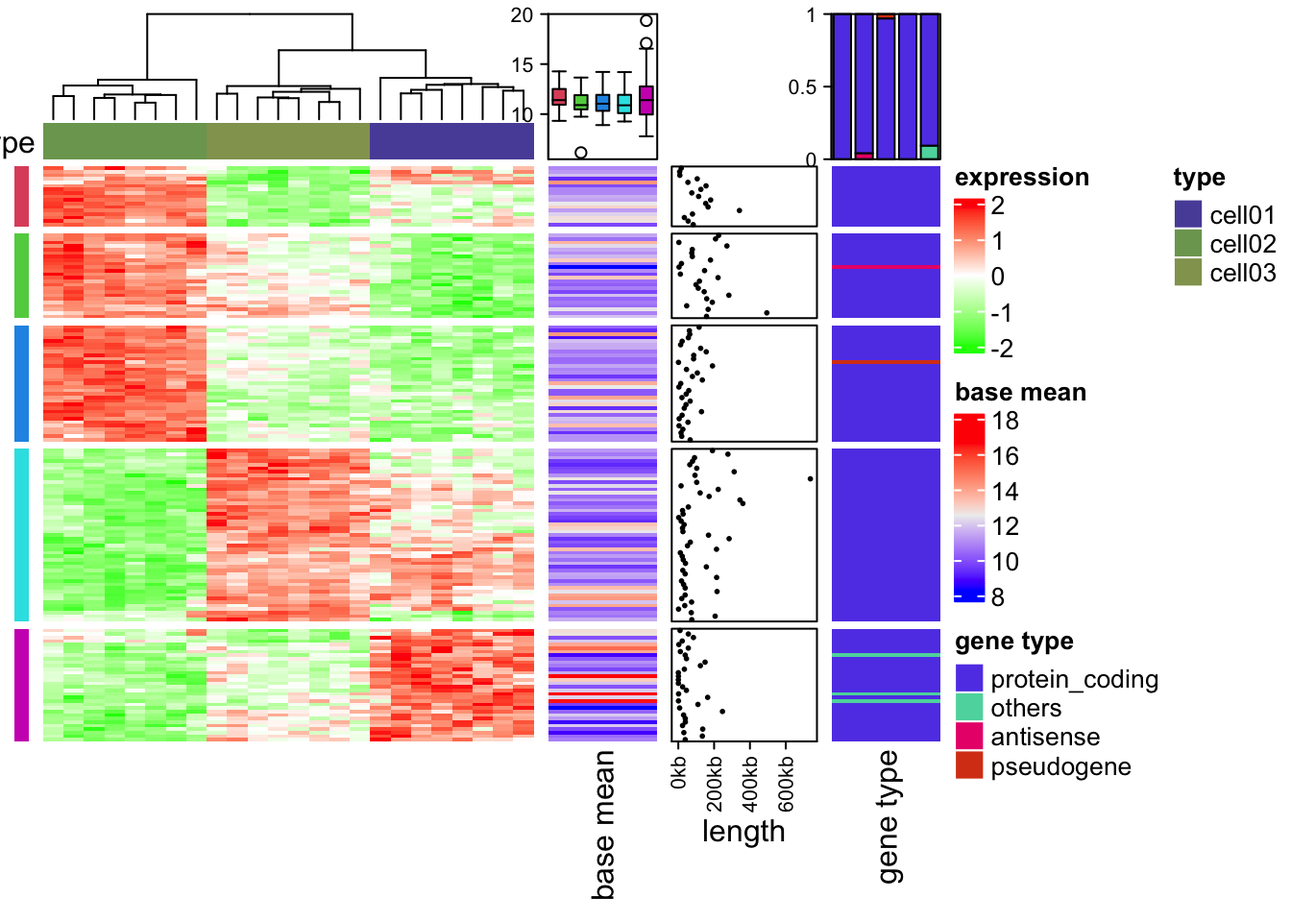
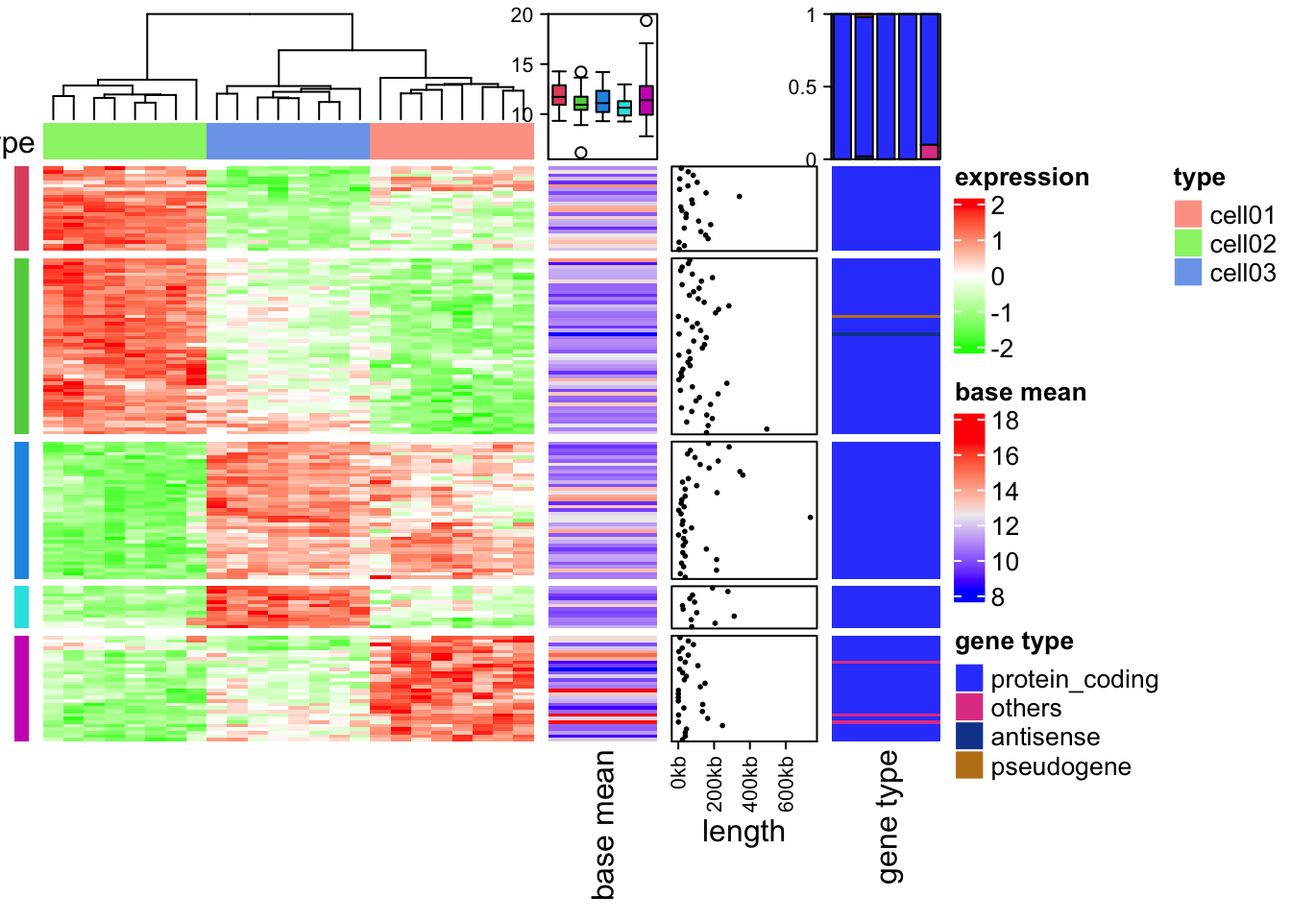
add complexheatmap

diff --git a/docs/blog/2023/05/03/index.html b/docs/blog/2023/05/03/index.html
@@ -220,35 +220,153 @@ code span.wa { color: #60a0b0; font-weight: bold; font-style: italic; } /* Warni
 <span><span class="kw"><a href="https://rdrr.io/r/base/library.html">require</a></span><span class="op">(</span><span class="va"><a href="https://svn.r-project.org/R-packages/trunk/cluster/">cluster</a></span><span class="op">)</span></span></code><button title="Copy to Clipboard" class="code-copy-button"><i class="bi"></i></button></pre></div>
 </div>
 <div class="cell" data-layout-align="center">
-<div class="sourceCode" id="cb2"><pre class="downlit sourceCode r code-with-copy"><code class="sourceCode R"><span><span class="kw"><a href="https://rdrr.io/r/base/library.html">library</a></span><span class="op">(</span><span class="va"><a href="https://github.com/jokergoo/ComplexHeatmap">ComplexHeatmap</a></span><span class="op">)</span></span>
-<span><span class="kw"><a href="https://rdrr.io/r/base/library.html">library</a></span><span class="op">(</span><span class="va"><a href="https://github.com/jokergoo/circlize">circlize</a></span><span class="op">)</span></span>
-<span></span>
-<span><span class="va">expr</span> <span class="op">&lt;-</span> <span class="fu"><a href="https://rdrr.io/r/base/readRDS.html">readRDS</a></span><span class="op">(</span><span class="fu"><a href="https://rdrr.io/r/base/system.file.html">system.file</a></span><span class="op">(</span>package <span class="op">=</span> <span class="st">"ComplexHeatmap"</span>, <span class="st">"extdata"</span>, <span class="st">"gene_expression.rds"</span><span class="op">)</span><span class="op">)</span></span>
+<div class="sourceCode" id="cb2"><pre class="downlit sourceCode r code-with-copy"><code class="sourceCode R"><span><span class="va">expr</span> <span class="op">&lt;-</span> <span class="fu"><a href="https://rdrr.io/r/base/readRDS.html">readRDS</a></span><span class="op">(</span><span class="fu"><a href="https://rdrr.io/r/base/system.file.html">system.file</a></span><span class="op">(</span>package <span class="op">=</span> <span class="st">"ComplexHeatmap"</span>, <span class="st">"extdata"</span>, <span class="st">"gene_expression.rds"</span><span class="op">)</span><span class="op">)</span></span>
+<span><span class="fu"><a href="https://rdrr.io/r/utils/head.html">head</a></span><span class="op">(</span><span class="va">expr</span><span class="op">)</span></span>
+<span><span class="co">##       s1_cell01 s2_cell02 s3_cell03 s4_cell01 s5_cell02 s6_cell03 s7_cell01</span></span>
+<span><span class="co">## gene1 11.116315 12.659864 11.380503 10.843436 12.294022 11.078295 11.083354</span></span>
+<span><span class="co">## gene2 10.947069  8.560271 11.370300 10.217849  8.863639 10.662690  9.595477</span></span>
+<span><span class="co">## gene3  9.452391  8.037535  8.938325 10.489147  8.402186  8.014418  9.437550</span></span>
+<span><span class="co">## gene4 12.555035 11.832308 11.475035 13.942389 10.607904 11.093560 13.494761</span></span>
+<span><span class="co">## gene5 13.409375 11.254771 13.975412 12.089657 12.501463 12.960217 12.122823</span></span>
+<span><span class="co">## gene6 10.047402  7.259497 10.345380  9.911114  8.219643 10.659074 11.340390</span></span>
+<span><span class="co">##       s8_cell02 s9_cell03 s10_cell01 s11_cell02 s12_cell03 s13_cell01</span></span>
+<span><span class="co">## gene1 12.831572 11.249163  10.455120  12.764083   11.19787  10.323888</span></span>
+<span><span class="co">## gene2  7.961365 10.503118   9.752049   8.418864   10.42819   9.476824</span></span>
+<span><span class="co">## gene3  7.036521  8.459766  10.182057   7.625993    8.92803   9.667321</span></span>
+<span><span class="co">## gene4 11.164252 11.803030  14.052338  11.198188   11.14581  14.066414</span></span>
+<span><span class="co">## gene5 11.046727 13.273749  11.356355  10.301182   13.31146  13.028308</span></span>
+<span><span class="co">## gene6  8.494383 10.704764   9.886160   7.856373   10.37793   9.784094</span></span>
+<span><span class="co">##       s14_cell02 s15_cell03 s16_cell01 s17_cell02 s18_cell03 s19_cell01</span></span>
+<span><span class="co">## gene1  13.012431  11.317087  10.406549  12.710788  11.413241  10.696686</span></span>
+<span><span class="co">## gene2   9.375891  11.239524   9.314513   8.470325  10.206657   9.948435</span></span>
+<span><span class="co">## gene3   6.948153   8.834066   9.591642   7.650367   8.397009   9.765836</span></span>
+<span><span class="co">## gene4  10.784919  11.973145  13.262880  11.185166  11.506757  13.597177</span></span>
+<span><span class="co">## gene5  10.550493  13.733216  11.621050  11.118950  14.008677  12.213920</span></span>
+<span><span class="co">## gene6   7.464900  11.005751   9.735216   7.039364   9.973792  10.455232</span></span>
+<span><span class="co">##       s20_cell02 s21_cell03 s22_cell01 s23_cell02 s24_cell03 length</span></span>
+<span><span class="co">## gene1  12.833052  11.120816  10.253059  12.639109   11.20286 124882</span></span>
+<span><span class="co">## gene2   8.955172  10.986614  10.070941   9.072506   10.86882  51244</span></span>
+<span><span class="co">## gene3   7.555076   9.363587   9.699388   7.212572    8.77353  39318</span></span>
+<span><span class="co">## gene4  11.965918  11.153328  12.774287  11.296756   11.69720  45043</span></span>
+<span><span class="co">## gene5  10.705403  13.476935  11.990328  10.409759   13.52906  15421</span></span>
+<span><span class="co">## gene6   7.823994  10.657544   9.713445   7.623823   10.52708 283709</span></span>
+<span><span class="co">##                 type  chr</span></span>
+<span><span class="co">## gene1 protein_coding chr1</span></span>
+<span><span class="co">## gene2 protein_coding chr1</span></span>
+<span><span class="co">## gene3 protein_coding chr1</span></span>
+<span><span class="co">## gene4 protein_coding chr1</span></span>
+<span><span class="co">## gene5 protein_coding chr1</span></span>
+<span><span class="co">## gene6 protein_coding chr1</span></span>
 <span><span class="va">mat</span> <span class="op">&lt;-</span> <span class="fu"><a href="https://rdrr.io/r/base/matrix.html">as.matrix</a></span><span class="op">(</span><span class="va">expr</span><span class="op">[</span>, <span class="fu"><a href="https://rdrr.io/r/base/grep.html">grep</a></span><span class="op">(</span><span class="st">"cell"</span>, <span class="fu"><a href="https://rdrr.io/r/base/colnames.html">colnames</a></span><span class="op">(</span><span class="va">expr</span><span class="op">)</span><span class="op">)</span><span class="op">]</span><span class="op">)</span></span>
+<span><span class="fu"><a href="https://rdrr.io/r/utils/head.html">head</a></span><span class="op">(</span><span class="va">mat</span><span class="op">)</span></span>
+<span><span class="co">##       s1_cell01 s2_cell02 s3_cell03 s4_cell01 s5_cell02 s6_cell03 s7_cell01</span></span>
+<span><span class="co">## gene1 11.116315 12.659864 11.380503 10.843436 12.294022 11.078295 11.083354</span></span>
+<span><span class="co">## gene2 10.947069  8.560271 11.370300 10.217849  8.863639 10.662690  9.595477</span></span>
+<span><span class="co">## gene3  9.452391  8.037535  8.938325 10.489147  8.402186  8.014418  9.437550</span></span>
+<span><span class="co">## gene4 12.555035 11.832308 11.475035 13.942389 10.607904 11.093560 13.494761</span></span>
+<span><span class="co">## gene5 13.409375 11.254771 13.975412 12.089657 12.501463 12.960217 12.122823</span></span>
+<span><span class="co">## gene6 10.047402  7.259497 10.345380  9.911114  8.219643 10.659074 11.340390</span></span>
+<span><span class="co">##       s8_cell02 s9_cell03 s10_cell01 s11_cell02 s12_cell03 s13_cell01</span></span>
+<span><span class="co">## gene1 12.831572 11.249163  10.455120  12.764083   11.19787  10.323888</span></span>
+<span><span class="co">## gene2  7.961365 10.503118   9.752049   8.418864   10.42819   9.476824</span></span>
+<span><span class="co">## gene3  7.036521  8.459766  10.182057   7.625993    8.92803   9.667321</span></span>
+<span><span class="co">## gene4 11.164252 11.803030  14.052338  11.198188   11.14581  14.066414</span></span>
+<span><span class="co">## gene5 11.046727 13.273749  11.356355  10.301182   13.31146  13.028308</span></span>
+<span><span class="co">## gene6  8.494383 10.704764   9.886160   7.856373   10.37793   9.784094</span></span>
+<span><span class="co">##       s14_cell02 s15_cell03 s16_cell01 s17_cell02 s18_cell03 s19_cell01</span></span>
+<span><span class="co">## gene1  13.012431  11.317087  10.406549  12.710788  11.413241  10.696686</span></span>
+<span><span class="co">## gene2   9.375891  11.239524   9.314513   8.470325  10.206657   9.948435</span></span>
+<span><span class="co">## gene3   6.948153   8.834066   9.591642   7.650367   8.397009   9.765836</span></span>
+<span><span class="co">## gene4  10.784919  11.973145  13.262880  11.185166  11.506757  13.597177</span></span>
+<span><span class="co">## gene5  10.550493  13.733216  11.621050  11.118950  14.008677  12.213920</span></span>
+<span><span class="co">## gene6   7.464900  11.005751   9.735216   7.039364   9.973792  10.455232</span></span>
+<span><span class="co">##       s20_cell02 s21_cell03 s22_cell01 s23_cell02 s24_cell03</span></span>
+<span><span class="co">## gene1  12.833052  11.120816  10.253059  12.639109   11.20286</span></span>
+<span><span class="co">## gene2   8.955172  10.986614  10.070941   9.072506   10.86882</span></span>
+<span><span class="co">## gene3   7.555076   9.363587   9.699388   7.212572    8.77353</span></span>
+<span><span class="co">## gene4  11.965918  11.153328  12.774287  11.296756   11.69720</span></span>
+<span><span class="co">## gene5  10.705403  13.476935  11.990328  10.409759   13.52906</span></span>
+<span><span class="co">## gene6   7.823994  10.657544   9.713445   7.623823   10.52708</span></span>
 <span><span class="va">base_mean</span> <span class="op">&lt;-</span> <span class="fu"><a href="https://rdrr.io/r/base/colSums.html">rowMeans</a></span><span class="op">(</span><span class="va">mat</span><span class="op">)</span></span>
+<span></span>
 <span><span class="va">mat_scaled</span> <span class="op">&lt;-</span> <span class="fu"><a href="https://rdrr.io/r/base/t.html">t</a></span><span class="op">(</span><span class="fu"><a href="https://rdrr.io/r/base/apply.html">apply</a></span><span class="op">(</span><span class="va">mat</span>, <span class="fl">1</span>, <span class="va">scale</span><span class="op">)</span><span class="op">)</span></span>
+<span><span class="fu"><a href="https://rdrr.io/r/utils/head.html">head</a></span><span class="op">(</span><span class="va">mat_scaled</span><span class="op">)</span></span>
+<span><span class="co">##             [,1]       [,2]       [,3]       [,4]       [,5]       [,6]</span></span>
+<span><span class="co">## gene1 -0.4580220  1.2233285 -0.1702484 -0.7552627  0.8248255 -0.4994371</span></span>
+<span><span class="co">## gene2  1.1767032 -1.2777399  1.6119295  0.4268159 -0.9657742  0.8842654</span></span>
+<span><span class="co">## gene3  0.7550086 -0.6387179  0.2486201  1.7762824 -0.2795125 -0.6614902</span></span>
+<span><span class="co">## gene4  0.4392434 -0.2123722 -0.5344916  1.6900900 -1.3163023 -0.8784313</span></span>
+<span><span class="co">## gene5  0.9598107 -0.8232334  1.4282345 -0.1323227  0.2084673  0.5881098</span></span>
+<span><span class="co">## gene6  0.4435133 -1.6417021  0.6663856  0.3415766 -0.9235605  0.9010132</span></span>
+<span><span class="co">##             [,7]       [,8]       [,9]       [,10]      [,11]      [,12]</span></span>
+<span><span class="co">## gene1 -0.4939266  1.4103655 -0.3133148 -1.17824668  1.3368516 -0.3691917</span></span>
+<span><span class="co">## gene2 -0.2131949 -1.8936196  0.7201703 -0.05218502 -1.4231542  0.6431164</span></span>
+<span><span class="co">## gene3  0.7403901 -1.6247838 -0.2227921  1.47377825 -1.0441140  0.2384783</span></span>
+<span><span class="co">## gene4  1.2865059 -0.8146949 -0.2387691  1.78922055 -0.7840981 -0.8313225</span></span>
+<span><span class="co">## gene5 -0.1048764 -0.9954000  0.8475728 -0.73916682 -1.6123756  0.8787834</span></span>
+<span><span class="co">## gene6  1.4106039 -0.7180682  0.9351877  0.32291180 -1.1952684  0.6907303</span></span>
+<span><span class="co">##            [,13]     [,14]       [,15]      [,16]      [,17]      [,18]</span></span>
+<span><span class="co">## gene1 -1.3211939  1.607371 -0.23932665 -1.2311539  1.2787988 -0.1345881</span></span>
+<span><span class="co">## gene2 -0.3352104 -0.439004  1.47744709 -0.5021218 -1.3702349  0.4153067</span></span>
+<span><span class="co">## gene3  0.9667295 -1.711832  0.14591791  0.8921807 -1.0201045 -0.2846127</span></span>
+<span><span class="co">## gene4  1.8019119 -1.156704 -0.08539204  1.0774400 -0.7958387 -0.5058908</span></span>
+<span><span class="co">## gene5  0.6444581 -1.406059  1.22780532 -0.5201185 -0.9356317  1.4557625</span></span>
+<span><span class="co">## gene6  0.2465721 -1.488071  1.16031047  0.2100137 -1.8063505  0.3884566</span></span>
+<span><span class="co">##             [,19]       [,20]      [,21]      [,22]      [,23]       [,24]</span></span>
+<span><span class="co">## gene1 -0.91511463  1.41197788 -0.4531195 -1.3983463  1.2007208 -0.36374691</span></span>
+<span><span class="co">## gene2  0.14976654 -0.87164722  1.2173693  0.2757451 -0.7509879  1.09623864</span></span>
+<span><span class="co">## gene3  1.06377353 -1.11397266  0.6675307  0.9983175 -1.4513615  0.08628584</span></span>
+<span><span class="co">## gene4  1.37884424 -0.09190863 -0.8245449  0.6369216 -0.6952291 -0.33418698</span></span>
+<span><span class="co">## gene5 -0.02948927 -1.27786240  1.0157196 -0.2145229 -1.5225229  1.05885767</span></span>
+<span><span class="co">## gene6  0.74854969 -1.21948586  0.8998689  0.1937302 -1.3692041  0.80228609</span></span>
 <span></span>
-<span><span class="va">type</span> <span class="op">=</span> <span class="fu"><a href="https://rdrr.io/r/base/grep.html">gsub</a></span><span class="op">(</span><span class="st">"s\\d+_"</span>, <span class="st">""</span>, <span class="fu"><a href="https://rdrr.io/r/base/colnames.html">colnames</a></span><span class="op">(</span><span class="va">mat</span><span class="op">)</span><span class="op">)</span></span>
-<span><span class="va">ha</span> <span class="op">=</span> <span class="fu"><a href="https://rdrr.io/pkg/ComplexHeatmap/man/HeatmapAnnotation.html">HeatmapAnnotation</a></span><span class="op">(</span>type <span class="op">=</span> <span class="va">type</span>, annotation_name_side <span class="op">=</span> <span class="st">"left"</span><span class="op">)</span></span>
+<span><span class="va">type</span> <span class="op">&lt;-</span> <span class="fu"><a href="https://rdrr.io/r/base/grep.html">gsub</a></span><span class="op">(</span><span class="st">"s\\d+_"</span>, <span class="st">""</span>, <span class="fu"><a href="https://rdrr.io/r/base/colnames.html">colnames</a></span><span class="op">(</span><span class="va">mat</span><span class="op">)</span><span class="op">)</span></span>
+<span><span class="va">type</span></span>
+<span><span class="co">##  [1] "cell01" "cell02" "cell03" "cell01" "cell02" "cell03" "cell01" "cell02"</span></span>
+<span><span class="co">##  [9] "cell03" "cell01" "cell02" "cell03" "cell01" "cell02" "cell03" "cell01"</span></span>
+<span><span class="co">## [17] "cell02" "cell03" "cell01" "cell02" "cell03" "cell01" "cell02" "cell03"</span></span>
 <span></span>
-<span><span class="va">ht_list</span> <span class="op">=</span> <span class="fu"><a href="https://rdrr.io/pkg/ComplexHeatmap/man/Heatmap.html">Heatmap</a></span><span class="op">(</span><span class="va">mat_scaled</span>, name <span class="op">=</span> <span class="st">"expression"</span>, row_km <span class="op">=</span> <span class="fl">5</span>, </span>
-<span>    col <span class="op">=</span> <span class="fu"><a href="https://rdrr.io/pkg/circlize/man/colorRamp2.html">colorRamp2</a></span><span class="op">(</span><span class="fu"><a href="https://rdrr.io/r/base/c.html">c</a></span><span class="op">(</span><span class="op">-</span><span class="fl">2</span>, <span class="fl">0</span>, <span class="fl">2</span><span class="op">)</span>, <span class="fu"><a href="https://rdrr.io/r/base/c.html">c</a></span><span class="op">(</span><span class="st">"green"</span>, <span class="st">"white"</span>, <span class="st">"red"</span><span class="op">)</span><span class="op">)</span>,</span>
-<span>    top_annotation <span class="op">=</span> <span class="va">ha</span>, </span>
-<span>    show_column_names <span class="op">=</span> <span class="cn">FALSE</span>, row_title <span class="op">=</span> <span class="cn">NULL</span>, show_row_dend <span class="op">=</span> <span class="cn">FALSE</span><span class="op">)</span> <span class="op">+</span></span>
-<span><span class="fu"><a href="https://rdrr.io/pkg/ComplexHeatmap/man/Heatmap.html">Heatmap</a></span><span class="op">(</span><span class="va">base_mean</span>, name <span class="op">=</span> <span class="st">"base mean"</span>, </span>
-<span>    top_annotation <span class="op">=</span> <span class="fu"><a href="https://rdrr.io/pkg/ComplexHeatmap/man/HeatmapAnnotation.html">HeatmapAnnotation</a></span><span class="op">(</span>summary <span class="op">=</span> <span class="fu"><a href="https://rdrr.io/pkg/ComplexHeatmap/man/anno_summary.html">anno_summary</a></span><span class="op">(</span>gp <span class="op">=</span> <span class="fu"><a href="https://rdrr.io/r/grid/gpar.html">gpar</a></span><span class="op">(</span>fill <span class="op">=</span> <span class="fl">2</span><span class="op">:</span><span class="fl">6</span><span class="op">)</span>, </span>
-<span>        height <span class="op">=</span> <span class="fu"><a href="https://rdrr.io/r/grid/unit.html">unit</a></span><span class="op">(</span><span class="fl">2</span>, <span class="st">"cm"</span><span class="op">)</span><span class="op">)</span><span class="op">)</span>,</span>
-<span>    width <span class="op">=</span> <span class="fu"><a href="https://rdrr.io/r/grid/unit.html">unit</a></span><span class="op">(</span><span class="fl">15</span>, <span class="st">"mm"</span><span class="op">)</span><span class="op">)</span> <span class="op">+</span></span>
-<span><span class="fu"><a href="https://rdrr.io/pkg/ComplexHeatmap/man/rowAnnotation.html">rowAnnotation</a></span><span class="op">(</span>length <span class="op">=</span> <span class="fu"><a href="https://rdrr.io/pkg/ComplexHeatmap/man/anno_points.html">anno_points</a></span><span class="op">(</span><span class="va">expr</span><span class="op">$</span><span class="va">length</span>, pch <span class="op">=</span> <span class="fl">16</span>, size <span class="op">=</span> <span class="fu"><a href="https://rdrr.io/r/grid/unit.html">unit</a></span><span class="op">(</span><span class="fl">1</span>, <span class="st">"mm"</span><span class="op">)</span>, </span>
-<span>    axis_param <span class="op">=</span> <span class="fu"><a href="https://rdrr.io/r/base/list.html">list</a></span><span class="op">(</span>at <span class="op">=</span> <span class="fu"><a href="https://rdrr.io/r/base/c.html">c</a></span><span class="op">(</span><span class="fl">0</span>, <span class="fl">2e5</span>, <span class="fl">4e5</span>, <span class="fl">6e5</span><span class="op">)</span>, </span>
-<span>        labels <span class="op">=</span> <span class="fu"><a href="https://rdrr.io/r/base/c.html">c</a></span><span class="op">(</span><span class="st">"0kb"</span>, <span class="st">"200kb"</span>, <span class="st">"400kb"</span>, <span class="st">"600kb"</span><span class="op">)</span><span class="op">)</span>,</span>
-<span>    width <span class="op">=</span> <span class="fu"><a href="https://rdrr.io/r/grid/unit.html">unit</a></span><span class="op">(</span><span class="fl">2</span>, <span class="st">"cm"</span><span class="op">)</span><span class="op">)</span><span class="op">)</span> <span class="op">+</span></span>
-<span><span class="fu"><a href="https://rdrr.io/pkg/ComplexHeatmap/man/Heatmap.html">Heatmap</a></span><span class="op">(</span><span class="va">expr</span><span class="op">$</span><span class="va">type</span>, name <span class="op">=</span> <span class="st">"gene type"</span>, </span>
-<span>    top_annotation <span class="op">=</span> <span class="fu"><a href="https://rdrr.io/pkg/ComplexHeatmap/man/HeatmapAnnotation.html">HeatmapAnnotation</a></span><span class="op">(</span>summary <span class="op">=</span> <span class="fu"><a href="https://rdrr.io/pkg/ComplexHeatmap/man/anno_summary.html">anno_summary</a></span><span class="op">(</span>height <span class="op">=</span> <span class="fu"><a href="https://rdrr.io/r/grid/unit.html">unit</a></span><span class="op">(</span><span class="fl">2</span>, <span class="st">"cm"</span><span class="op">)</span><span class="op">)</span><span class="op">)</span>,</span>
-<span>    width <span class="op">=</span> <span class="fu"><a href="https://rdrr.io/r/grid/unit.html">unit</a></span><span class="op">(</span><span class="fl">15</span>, <span class="st">"mm"</span><span class="op">)</span><span class="op">)</span></span>
+<span><span class="va">ha</span> <span class="op">&lt;-</span> <span class="fu"><a href="https://rdrr.io/pkg/ComplexHeatmap/man/HeatmapAnnotation.html">HeatmapAnnotation</a></span><span class="op">(</span>type <span class="op">=</span> <span class="va">type</span>, annotation_name_side <span class="op">=</span> <span class="st">"left"</span><span class="op">)</span></span>
 <span></span>
-<span><span class="va">ht_list</span> <span class="op">=</span> <span class="fu"><a href="https://rdrr.io/pkg/ComplexHeatmap/man/rowAnnotation.html">rowAnnotation</a></span><span class="op">(</span>block <span class="op">=</span> <span class="fu"><a href="https://rdrr.io/pkg/ComplexHeatmap/man/anno_block.html">anno_block</a></span><span class="op">(</span>gp <span class="op">=</span> <span class="fu"><a href="https://rdrr.io/r/grid/gpar.html">gpar</a></span><span class="op">(</span>fill <span class="op">=</span> <span class="fl">2</span><span class="op">:</span><span class="fl">6</span>, col <span class="op">=</span> <span class="cn">NA</span><span class="op">)</span><span class="op">)</span>, </span>
-<span>    width <span class="op">=</span> <span class="fu"><a href="https://rdrr.io/r/grid/unit.html">unit</a></span><span class="op">(</span><span class="fl">2</span>, <span class="st">"mm"</span><span class="op">)</span><span class="op">)</span> <span class="op">+</span> <span class="va">ht_list</span></span>
+<span><span class="va">ht_list</span> <span class="op">&lt;-</span> <span class="fu"><a href="https://rdrr.io/pkg/ComplexHeatmap/man/Heatmap.html">Heatmap</a></span><span class="op">(</span></span>
+<span>        <span class="va">mat_scaled</span>,</span>
+<span>        name <span class="op">=</span> <span class="st">"expression"</span>, row_km <span class="op">=</span> <span class="fl">5</span>,</span>
+<span>        col <span class="op">=</span> <span class="fu"><a href="https://rdrr.io/pkg/circlize/man/colorRamp2.html">colorRamp2</a></span><span class="op">(</span><span class="fu"><a href="https://rdrr.io/r/base/c.html">c</a></span><span class="op">(</span><span class="op">-</span><span class="fl">2</span>, <span class="fl">0</span>, <span class="fl">2</span><span class="op">)</span>, <span class="fu"><a href="https://rdrr.io/r/base/c.html">c</a></span><span class="op">(</span><span class="st">"green"</span>, <span class="st">"white"</span>, <span class="st">"red"</span><span class="op">)</span><span class="op">)</span>,</span>
+<span>        top_annotation <span class="op">=</span> <span class="va">ha</span>,</span>
+<span>        show_column_names <span class="op">=</span> <span class="cn">FALSE</span>, row_title <span class="op">=</span> <span class="cn">NULL</span>, show_row_dend <span class="op">=</span> <span class="cn">FALSE</span></span>
+<span>    <span class="op">)</span> <span class="op">+</span></span>
+<span>    <span class="fu"><a href="https://rdrr.io/pkg/ComplexHeatmap/man/Heatmap.html">Heatmap</a></span><span class="op">(</span></span>
+<span>        <span class="va">base_mean</span>,</span>
+<span>        name <span class="op">=</span> <span class="st">"base mean"</span>,</span>
+<span>        top_annotation <span class="op">=</span> <span class="fu"><a href="https://rdrr.io/pkg/ComplexHeatmap/man/HeatmapAnnotation.html">HeatmapAnnotation</a></span><span class="op">(</span>summary <span class="op">=</span> <span class="fu"><a href="https://rdrr.io/pkg/ComplexHeatmap/man/anno_summary.html">anno_summary</a></span><span class="op">(</span></span>
+<span>            gp <span class="op">=</span> <span class="fu"><a href="https://rdrr.io/r/grid/gpar.html">gpar</a></span><span class="op">(</span>fill <span class="op">=</span> <span class="fl">2</span><span class="op">:</span><span class="fl">6</span><span class="op">)</span>,</span>
+<span>            height <span class="op">=</span> <span class="fu"><a href="https://rdrr.io/r/grid/unit.html">unit</a></span><span class="op">(</span><span class="fl">2</span>, <span class="st">"cm"</span><span class="op">)</span></span>
+<span>        <span class="op">)</span><span class="op">)</span>,</span>
+<span>        width <span class="op">=</span> <span class="fu"><a href="https://rdrr.io/r/grid/unit.html">unit</a></span><span class="op">(</span><span class="fl">15</span>, <span class="st">"mm"</span><span class="op">)</span></span>
+<span>    <span class="op">)</span> <span class="op">+</span></span>
+<span>    <span class="fu"><a href="https://rdrr.io/pkg/ComplexHeatmap/man/rowAnnotation.html">rowAnnotation</a></span><span class="op">(</span></span>
+<span>        length <span class="op">=</span> <span class="fu"><a href="https://rdrr.io/pkg/ComplexHeatmap/man/anno_points.html">anno_points</a></span><span class="op">(</span><span class="va">expr</span><span class="op">$</span><span class="va">length</span>,</span>
+<span>            pch <span class="op">=</span> <span class="fl">16</span>, size <span class="op">=</span> <span class="fu"><a href="https://rdrr.io/r/grid/unit.html">unit</a></span><span class="op">(</span><span class="fl">1</span>, <span class="st">"mm"</span><span class="op">)</span>,</span>
+<span>            axis_param <span class="op">=</span> <span class="fu"><a href="https://rdrr.io/r/base/list.html">list</a></span><span class="op">(</span></span>
+<span>                at <span class="op">=</span> <span class="fu"><a href="https://rdrr.io/r/base/c.html">c</a></span><span class="op">(</span><span class="fl">0</span>, <span class="fl">2e5</span>, <span class="fl">4e5</span>, <span class="fl">6e5</span><span class="op">)</span>,</span>
+<span>                labels <span class="op">=</span> <span class="fu"><a href="https://rdrr.io/r/base/c.html">c</a></span><span class="op">(</span><span class="st">"0kb"</span>, <span class="st">"200kb"</span>, <span class="st">"400kb"</span>, <span class="st">"600kb"</span><span class="op">)</span></span>
+<span>            <span class="op">)</span>,</span>
+<span>            width <span class="op">=</span> <span class="fu"><a href="https://rdrr.io/r/grid/unit.html">unit</a></span><span class="op">(</span><span class="fl">2</span>, <span class="st">"cm"</span><span class="op">)</span></span>
+<span>        <span class="op">)</span></span>
+<span>    <span class="op">)</span> <span class="op">+</span></span>
+<span>    <span class="fu"><a href="https://rdrr.io/pkg/ComplexHeatmap/man/Heatmap.html">Heatmap</a></span><span class="op">(</span></span>
+<span>        <span class="va">expr</span><span class="op">$</span><span class="va">type</span>,</span>
+<span>        name <span class="op">=</span> <span class="st">"gene type"</span>,</span>
+<span>        top_annotation <span class="op">=</span> <span class="fu"><a href="https://rdrr.io/pkg/ComplexHeatmap/man/HeatmapAnnotation.html">HeatmapAnnotation</a></span><span class="op">(</span></span>
+<span>            summary <span class="op">=</span> <span class="fu"><a href="https://rdrr.io/pkg/ComplexHeatmap/man/anno_summary.html">anno_summary</a></span><span class="op">(</span>height <span class="op">=</span> <span class="fu"><a href="https://rdrr.io/r/grid/unit.html">unit</a></span><span class="op">(</span><span class="fl">2</span>, <span class="st">"cm"</span><span class="op">)</span><span class="op">)</span></span>
+<span>            <span class="op">)</span>,</span>
+<span>        width <span class="op">=</span> <span class="fu"><a href="https://rdrr.io/r/grid/unit.html">unit</a></span><span class="op">(</span><span class="fl">15</span>, <span class="st">"mm"</span><span class="op">)</span></span>
+<span>    <span class="op">)</span></span>
+<span></span>
+<span><span class="va">ht_list</span> <span class="op">&lt;-</span> <span class="fu"><a href="https://rdrr.io/pkg/ComplexHeatmap/man/rowAnnotation.html">rowAnnotation</a></span><span class="op">(</span></span>
+<span>        block <span class="op">=</span> <span class="fu"><a href="https://rdrr.io/pkg/ComplexHeatmap/man/anno_block.html">anno_block</a></span><span class="op">(</span>gp <span class="op">=</span> <span class="fu"><a href="https://rdrr.io/r/grid/gpar.html">gpar</a></span><span class="op">(</span>fill <span class="op">=</span> <span class="fl">2</span><span class="op">:</span><span class="fl">6</span>, col <span class="op">=</span> <span class="cn">NA</span><span class="op">)</span><span class="op">)</span>,</span>
+<span>        width <span class="op">=</span> <span class="fu"><a href="https://rdrr.io/r/grid/unit.html">unit</a></span><span class="op">(</span><span class="fl">2</span>, <span class="st">"mm"</span><span class="op">)</span></span>
+<span>    <span class="op">)</span> <span class="op">+</span> <span class="va">ht_list</span></span>
 <span></span>
 <span><span class="fu"><a href="https://rdrr.io/pkg/ComplexHeatmap/man/draw-dispatch.html">draw</a></span><span class="op">(</span><span class="va">ht_list</span><span class="op">)</span></span></code><button title="Copy to Clipboard" class="code-copy-button"><i class="bi"></i></button></pre></div>
 <div class="cell-output-display">

diff --git a/docs/blog/index.html b/docs/blog/index.html
@@ -226,7 +226,7 @@ ul.task-list li input[type="checkbox"] {
 <h2 class="anchored" data-anchor-id="section">2023</h2>
 <div id="listing-posts_2023" class="quarto-listing quarto-listing-container-custom">
 <div class="list blog">
-    <div class="blog-entry" data-index="0" data-categories="ComplexHeatmap" data-listing-date-sort="1683043200000" data-listing-file-modified-sort="1683123263169" data-listing-reading-time-sort="1.875">
+    <div class="blog-entry" data-index="0" data-categories="ComplexHeatmap" data-listing-date-sort="1683043200000" data-listing-file-modified-sort="1683207985845" data-listing-reading-time-sort="3.055">
         <div class="metadata">          
             <p class="date listing-date">May 3, 2023</p>
         </div>

diff --git a/docs/index.html b/docs/index.html
@@ -217,7 +217,7 @@ ul.task-list li input[type="checkbox"] {
 <h2 class="anchored" data-anchor-id="section">2023</h2>
 <div id="listing-posts_2023" class="quarto-listing quarto-listing-container-custom">
 <div class="list blog">
-    <div class="blog-entry" data-index="0" data-categories="ComplexHeatmap" data-listing-date-sort="1683043200000" data-listing-file-modified-sort="1683123263169" data-listing-reading-time-sort="1.875">
+    <div class="blog-entry" data-index="0" data-categories="ComplexHeatmap" data-listing-date-sort="1683043200000" data-listing-file-modified-sort="1683207985845" data-listing-reading-time-sort="3.055">
         <div class="metadata">          
             <p class="date listing-date">May 3, 2023</p>
         </div>

diff --git a/docs/atom.html b/docs/atom.html
@@ -401,7 +401,7 @@ Guorui Zhong
 </a>
 </div>
 </div>
-<div class="quarto-post image-right" data-index="8" data-categories="ComplexHeatmap" data-listing-date-sort="1683043200000" data-listing-file-modified-sort="1683123263169" data-listing-reading-time-sort="1.875">
+<div class="quarto-post image-right" data-index="8" data-categories="ComplexHeatmap" data-listing-date-sort="1683043200000" data-listing-file-modified-sort="1683207985845" data-listing-reading-time-sort="3.055">
 <div class="thumbnail">
 <p><a href="./blog/2023/05/03/index.html"> <img src="./blog/2023/05/03/heatmap.png" class="thumnail-image"> </a></p>
 </div>
